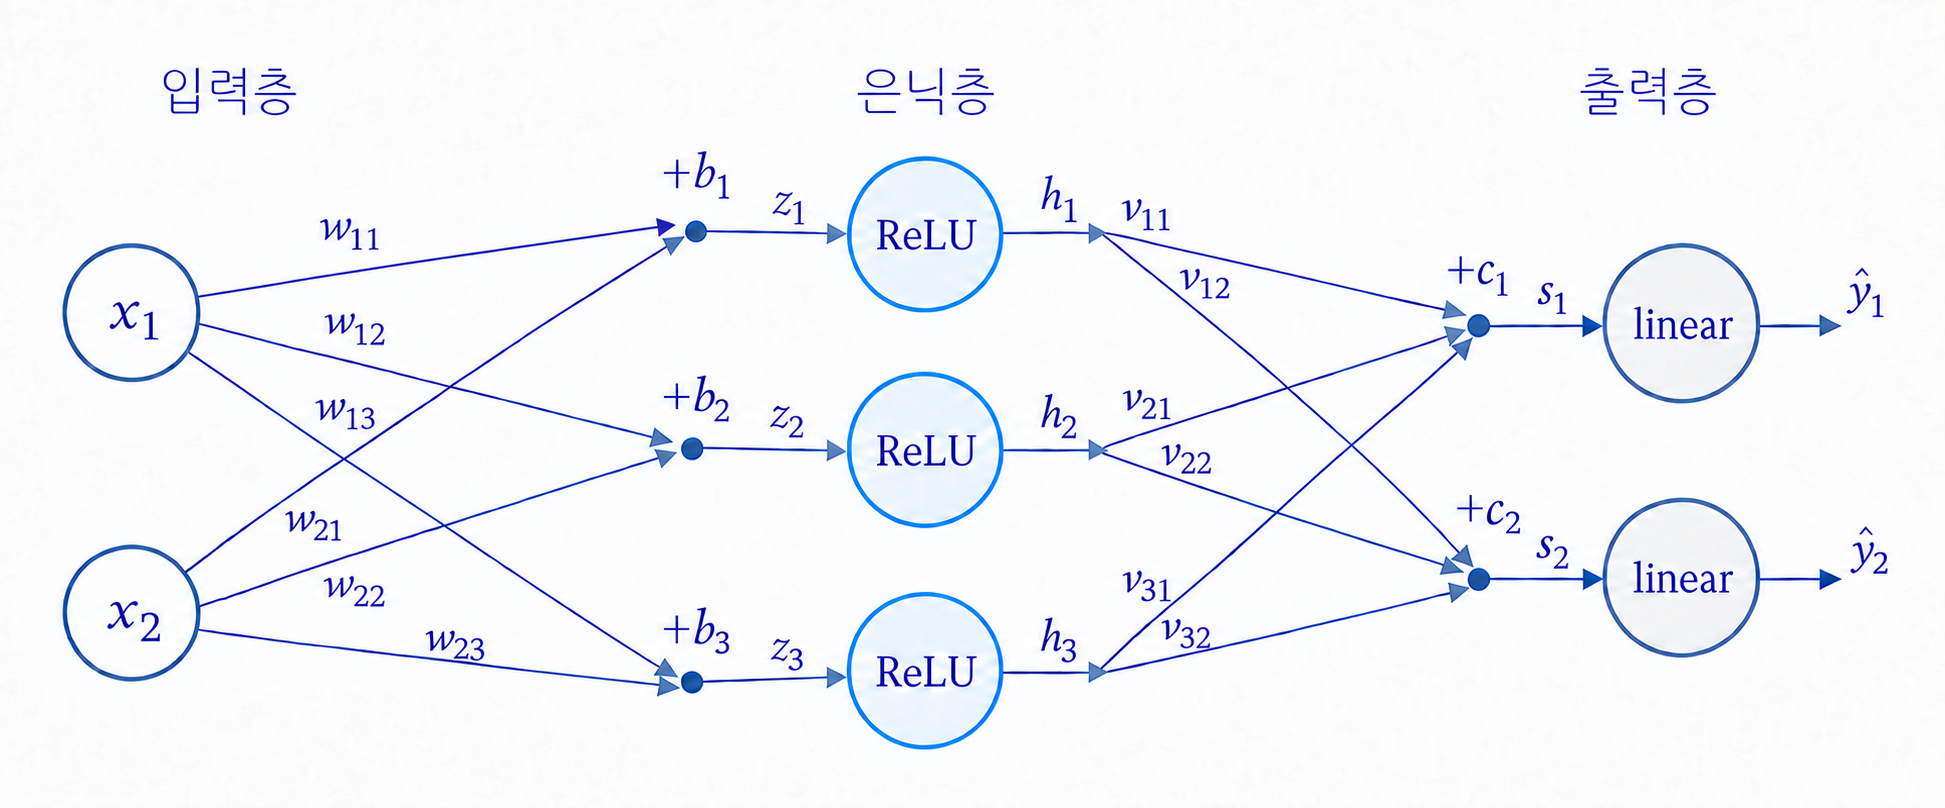
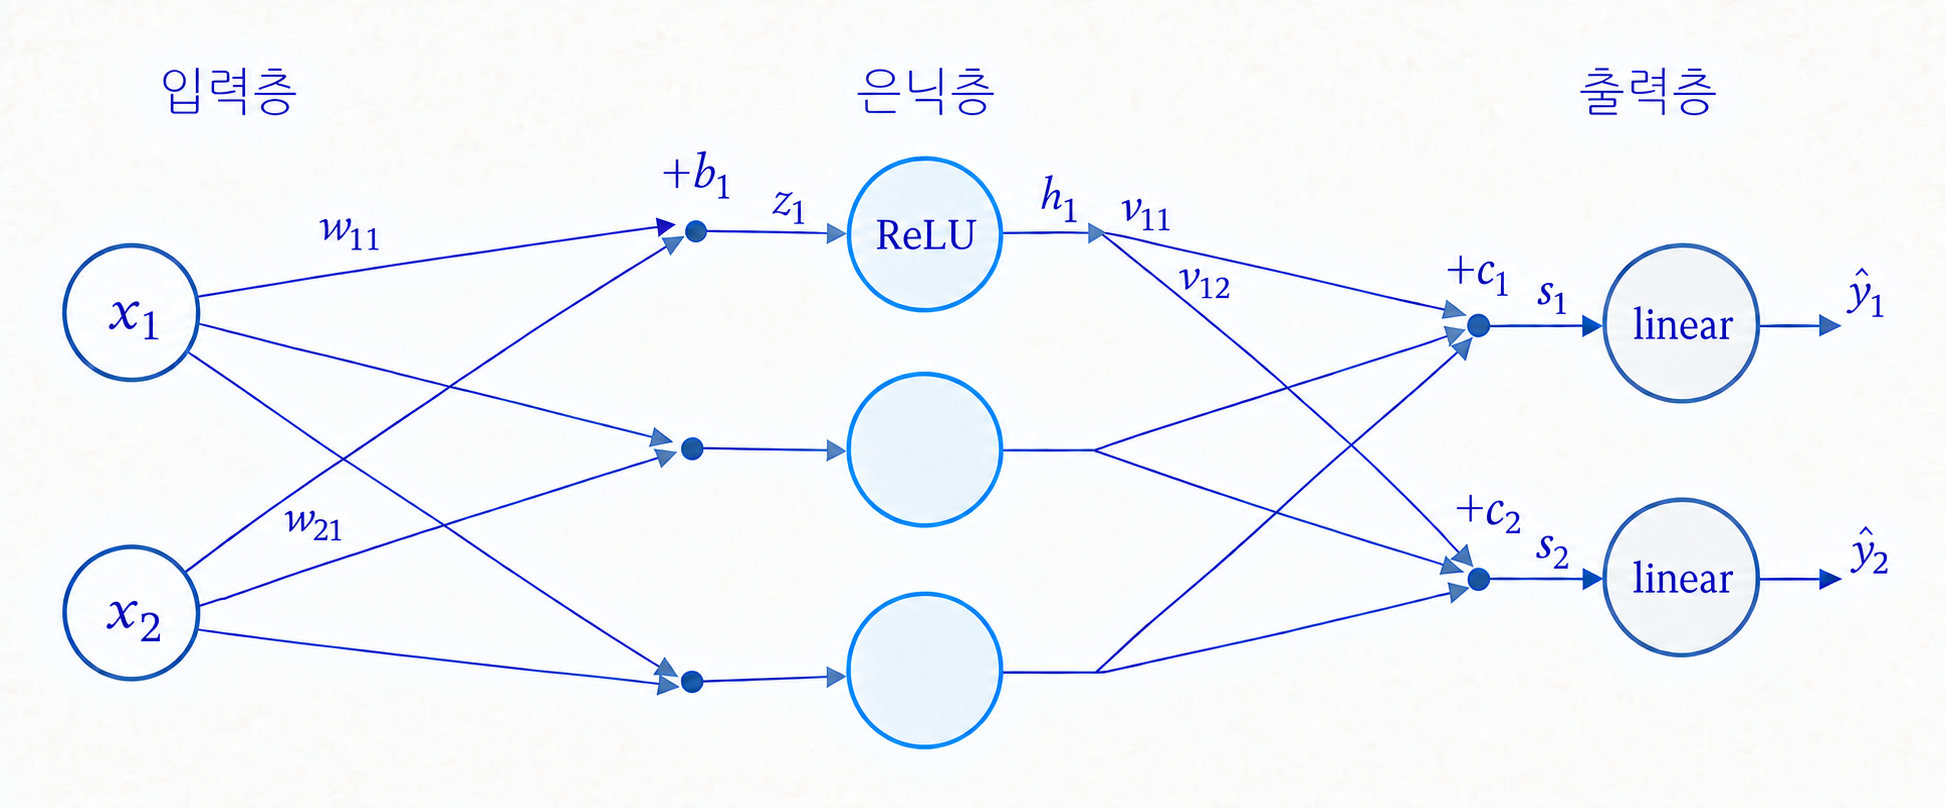
Simplify neural network labels to first hidden node and outputs

diff --git a/site/src/content/notes/Machine Learning｜Deep Learning/deeplearning_04.md b/site/src/content/notes/Machine Learning｜Deep Learning/deeplearning_04.md
@@ -27,7 +27,7 @@ featured: false
 
 이후 계산은 출력 하나만 둔 경우로 단순화해 $v_{j1}$을 $v_j$, $c_1$을 $b_{\mathrm{out}}$, $\hat y_1$을 $\hat y$로 씁니다.
 
-<img src="../../../../public/images/notes/backpropagation/example-network.png" alt="입력 x1·x2, 은닉 노드 세 개와 출력 노드 두 개를 연결한 신경망. 각 연결의 가중치 wij·vjk, 편향 bj·ck, 은닉층 가중합 zj와 출력 hj, 출력층 가중합 sk와 예측값 y-hat-k를 표시한다." width="960" loading="lazy" />
+<img src="../../../../public/images/notes/backpropagation/example-network.png" alt="입력 x1·x2, 은닉 노드 세 개와 출력 노드 두 개를 연결한 신경망. 첫 은닉 노드의 입력 가중치 w11·w21, 편향 b1, 가중합 z1과 출력 h1, 두 출력으로 이어지는 가중치 v11·v12와 출력층 편향 c1·c2, 가중합 s1·s2와 예측값을 표시한다. 나머지 은닉 노드와 연결선의 라벨은 생략한다." width="960" loading="lazy" />
 
 은닉 노드는 입력을 가중치로 합한 $z_j$에 ReLU를 씌워 $h_j$를 냅니다. 출력 노드는 $h_j$를 다시 가중치로 합해 $\hat y$를 냅니다.
 
